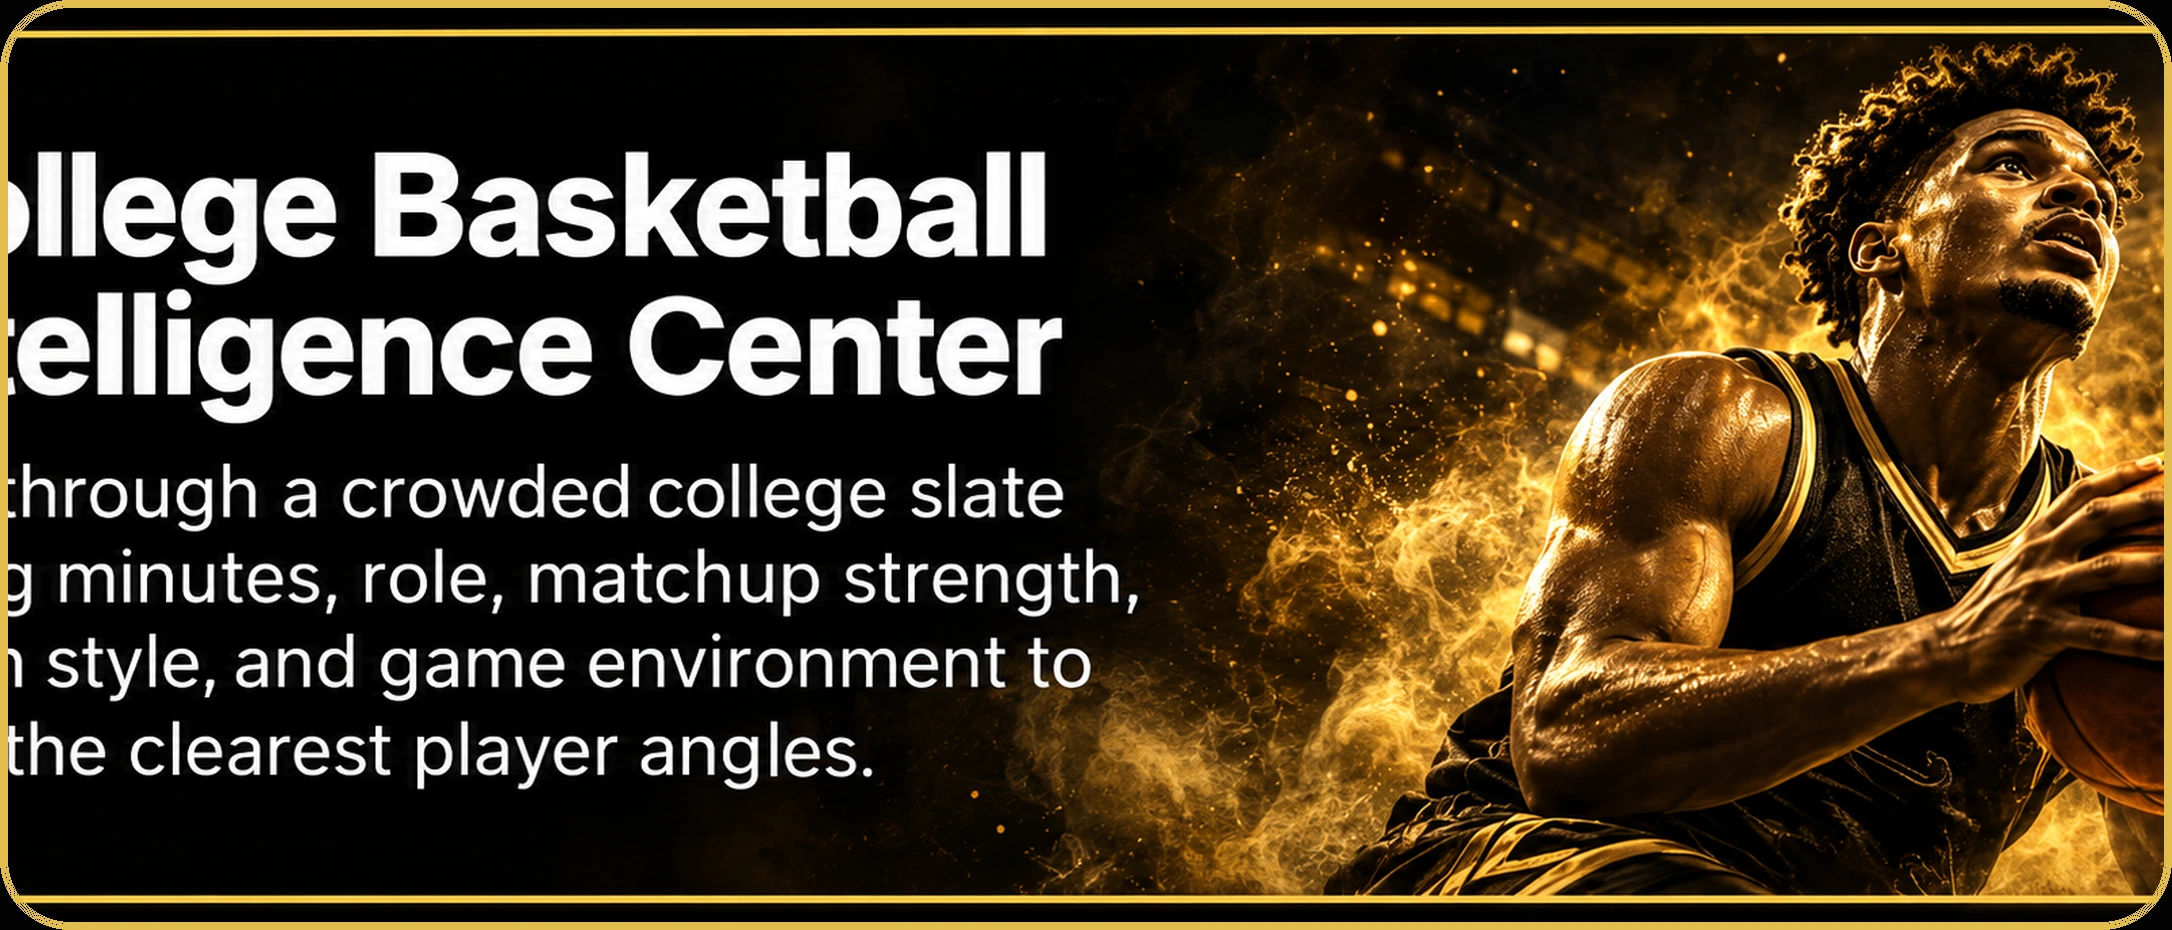
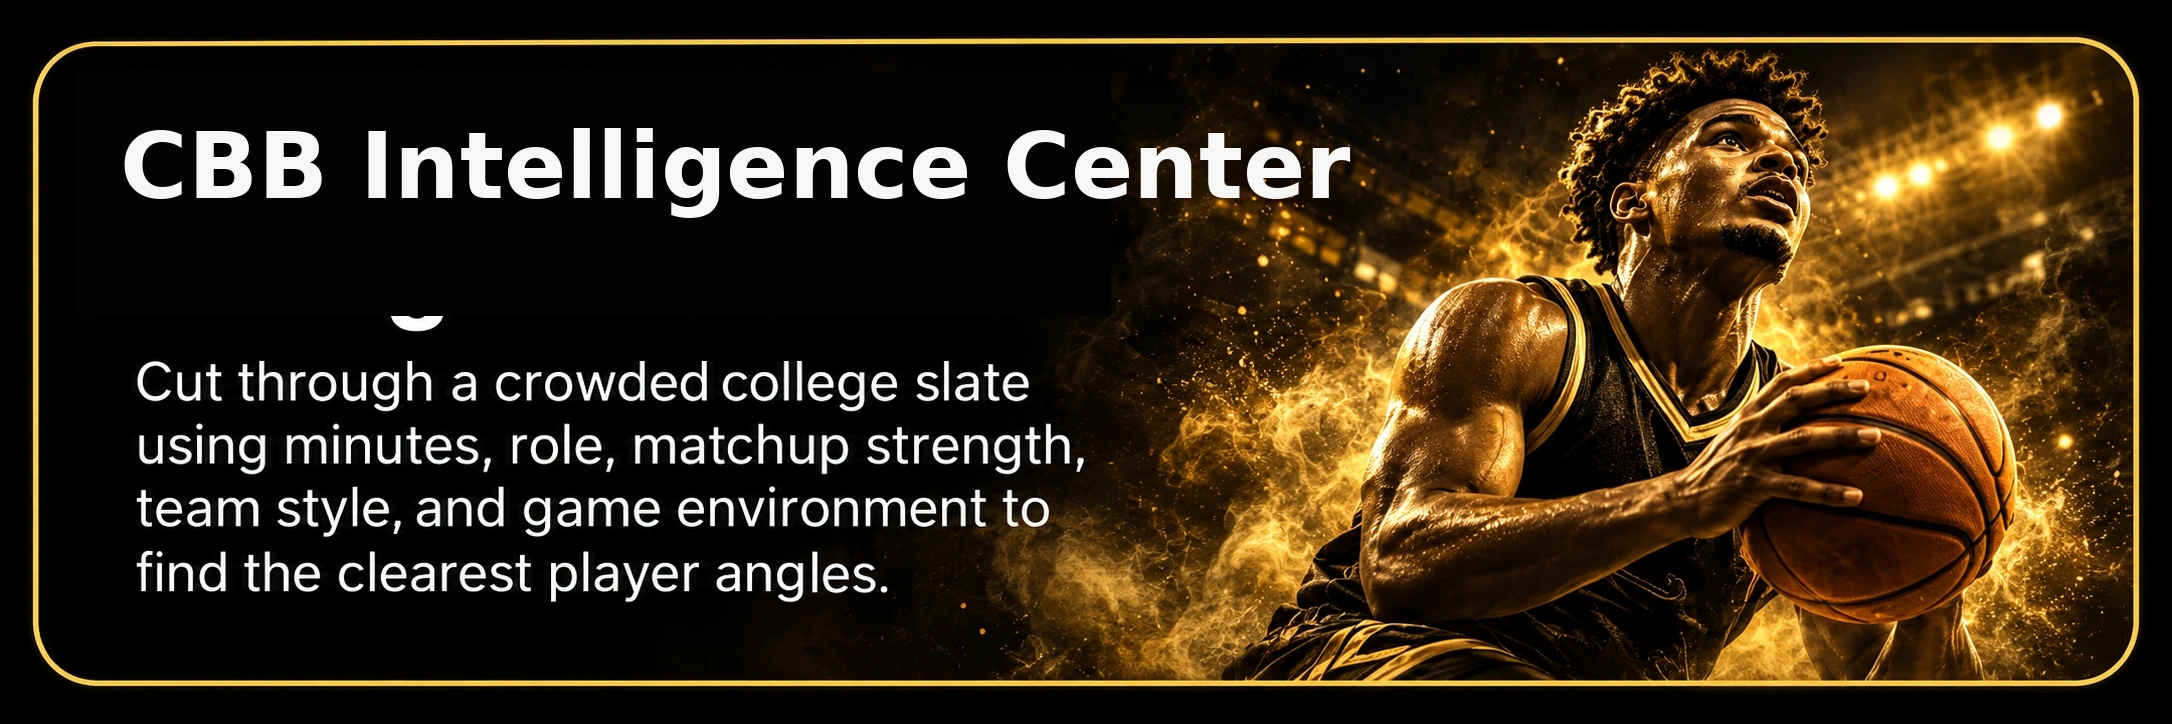
Compare large CBB hero against middle-ground NBA hero sizing

diff --git a/frontend/components/dashboard-chrome.tsx b/frontend/components/dashboard-chrome.tsx
@@ -51,7 +51,7 @@ export const HERO_COPY: Record<SportKey, { title: string; message: string }> = {
       "Start with who is actually on the pitch — lineup status, role, minutes expectation, opponent quality, and recent form define the strongest player markets.",
   },
   cbb: {
-    title: "College Basketball Intelligence Center",
+    title: "CBB Intelligence Center",
     message:
       "Cut through a crowded college slate using minutes, role, matchup strength, team style, and game environment to find the clearest player angles.",
   },
